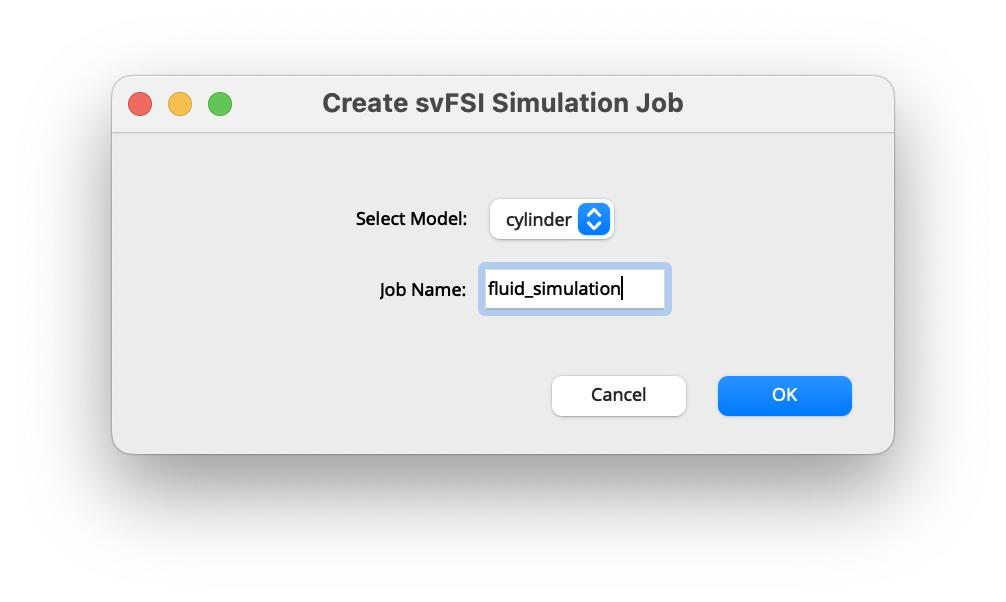
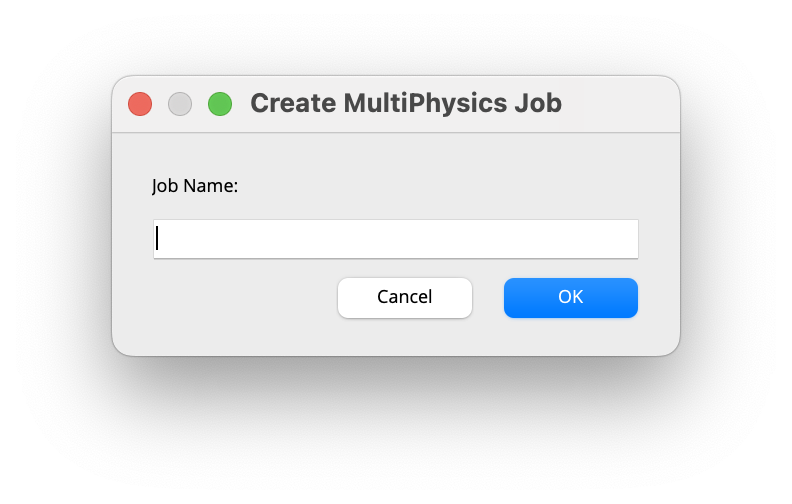
Update the MultiPhysics section.

Changed region(s): [[0.0909, 0.2381, 0.9091, 0.8333], [0.1212, 0.119, 0.8788, 0.2381], [0.1818, 0.3571, 0.303, 0.3869]]

diff --git a/documentation/multi_physics/sv-multiphysics-tool/readme.md b/documentation/multi_physics/sv-multiphysics-tool/readme.md
@@ -3,10 +3,6 @@
 
 <h1 id="sv_multiphysics_tool" style="text-align:center;"> SimVascular MultiPhysics Tool </h1>
 
-<div style="background-color: #F0F0F0; padding: 10px; border: 1px solid #e6e600; border-left: 6px solid #e6e600">
-The SimVascular MultiPhysics Tool does not yet support writing svMultiPhysics solver XML files.
-</div>
-
 The SimVascular <strong>SV MultiPhysics Tool</strong> is used to interactively create the mesh and solver XML input files
 needed to run an svMultiPhysics simulation.
 
@@ -36,17 +32,23 @@ menu item displays a file browser used to select to location to store the locati
 <!--- ---------- Creating an MultiPhysics Tool Instance ---------- --->
 <!--- ------------------------------------------------------------ --->
 
-<h2 id="sv_multiphysics_tool_create_instance"> Creating an MultiPhysics Tool Instance </h2> 
-A <strong>MultiPhysics Tool</strong> instance is created by right-clicking on the <strong>MultiPhysics</strong> node 
-under the SV Data Manager. Selecting the <strong>Create MultiPhysics job</strong> menu item displays a popup window.
+<h2 id="sv_multiphysics_tool_create_instance"> Creating a MultiPhysics Tool Instance </h2> 
+
+Creating a <strong>MultiPhysics Tool</strong> is performed differently than the other Tools. 
+
+First select the <strong>MultiPhysics Icon</strong> 
+<img src="/documentation/multi_physics/sv-multiphysics-tool/images/multiphysics-icon.png" height="20" width="20"> locationed in the SimVascular Window Toolbar. This will bring up an uninitialized <strong>MultiPhysics Tool</strong> panel 
+<img class="svImg svImgSm" src="/documentation/multi_physics/sv-multiphysics-tool/images/multiphysics-blank-panel.png">
+
+Next select the <img src="/documentation/multi_physics/sv-multiphysics-tool/images/multiphysics-new-job-button.png" width="10%"> button at the top of the <strong>MultiPhysics Tool</strong> panel. This will display a <strong>Create MultiPhysics Job</strong> popup window.
 
 <figure>
 <img class="svImg svImgSm" src="/documentation/multi_physics/sv-multiphysics-tool/images/create-job-popup.png">
-<figcaption class="svCaption"> The <strong>Create MultiPhysics Simulation Job </strong> popup menu.  
+<figcaption class="svCaption"> The <strong>Create MultiPhysics Job </strong> popup menu.  
 </figcaption>
 </figure>
 
-Type <strong>fluid_simulation</strong> into the <strong>job Name</strong> <i>DialogBox</i>. This names is used 
+Type <strong>fluid_simulation</strong> into the <strong>Job Name</strong> <i>DialogBox</i>. This names is used 
 to identify the <strong>MultiPhysics Tool</strong> instance and to name the files and directories stored under the 
 SimVascular project's MultiPhysics directory. Selecting OK creates an <strong>MultiPhysics Tool</strong> instance node under 
 the SV Data Manager. Selecting this instance displays the <strong>MultiPhysics Tool</strong> panel.

diff --git a/documentation/multi_physics/sv-multiphysics-tool/tutorial/readme.md b/documentation/multi_physics/sv-multiphysics-tool/tutorial/readme.md
@@ -146,7 +146,7 @@ The following steps demonstrate how to create an instance of an <strong>MultiPhy
   <tr>
     <td><img src="/documentation/multi_physics/sv-multiphysics-tool/tutorial/images/create-select-icon.png" width="597" height="412"> </td>
     <td>
-    Select the <strong>MultiPhysics Icon</strong> <img src="/documentation/multi_physics/sv-multiphysics-tool/tutorial/images/multiphysics-icon.png"width="5%" height="5%">
+    Select the <strong>MultiPhysics Icon</strong> <img src="/documentation/multi_physics/sv-multiphysics-tool/tutorial/images/multiphysics-icon.png"width="20" height="20">
     located on the SimVascular window <i>Toolbar</i>.
     <br>This displays an <strong>MultiPhysics Tool</strong> panel.
     </td>
